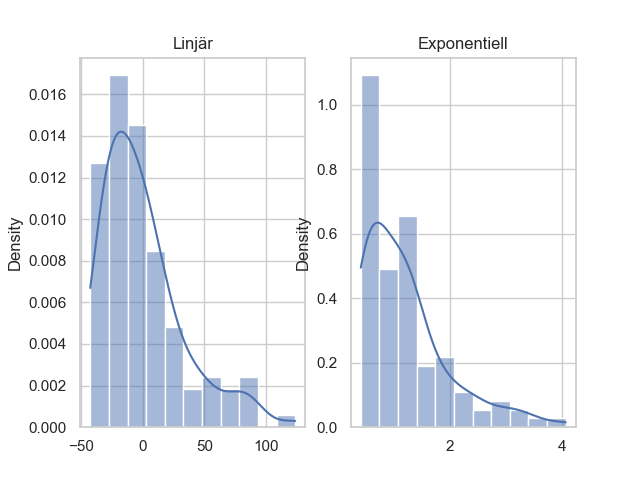
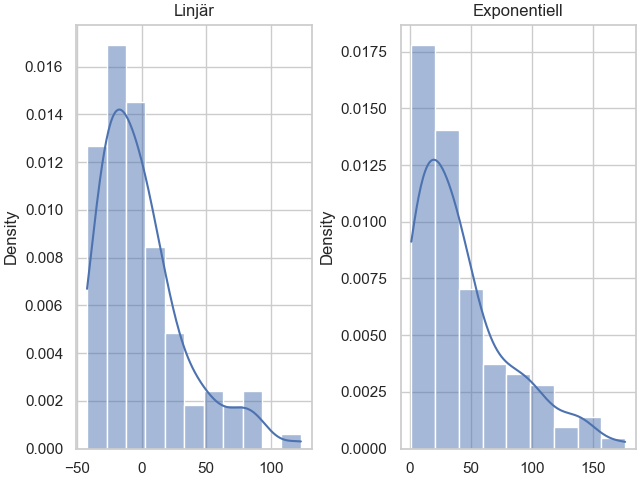
Ändrat prediktionen & regressionsmodellen till smf

diff --git a/MatstatProjekt.py b/MatstatProjekt.py
@@ -24,8 +24,8 @@ Y = Pb_S['Pb'].values
 
 #%% Enkel regression, Linjär modell Södermanland
 
-res_lin=smf.ols(formula='Pb~Year1975',data=Pb_S).fit()
-print(res_lin.summary())
+reg_lin=smf.ols(formula='Pb~Year1975',data=Pb_S).fit()
+print(reg_lin.summary())
 
 #Våra parametrar för den linjära modellen
 alpha, beta = reg_lin.params
@@ -49,8 +49,8 @@ plt.show()
 #%% Enkel regression differential model Södermanland
 
 Y_log = np.log(Y)
-res_exp = smf.ols(formula='np.log(Pb)~Year1975',data=Pb_S).fit()
-print(res_exp.summary())
+reg_exp = smf.ols(formula='np.log(Pb)~Year1975',data=Pb_S).fit()
+print(reg_exp.summary())
 
 #Våra parametrar för den exponentiella modellen
 C, k = np.exp(reg_exp.params[0]), reg_exp.params[1]
@@ -77,7 +77,7 @@ plt.title('Södermanland exponentiell')
 plt.savefig('Grafer/SödermanlandExponentiell.png')
 plt.show()
 
-#Jämförelse mellan linjär och exponentiell modell
+#%%Jämförelse mellan linjär och exponentiell modell
 fig,axs=plt.subplots(1, 2, constrained_layout=True)
 axs[0].set_title('Linjär')
 axs[1].set_title('Exponentiell')
@@ -126,18 +126,24 @@ plt.title("Exponentiella modeller")
 #Sparar och visar grafen med våra exponentiella modeller
 plt.savefig('Grafer/ExpModeller.png')
 plt.show()
-#%% Prediktion Ny
+#%% Prediktion 2025
 Pb_0=pd.DataFrame({'Year1975' : [50, 50],'Lan_I' : [0, 1]})
 Pred=res_mult_log.get_prediction(Pb_0).summary_frame(alpha=0.05)
-print(str(Pred))
-print(str(Pred[0][0]))
-#%% Prediktion med intervall
+
+Pred_S_2025=[np.exp(Pred['mean'][1]),np.exp(Pred['mean_ci_lower'][1]),np.exp(Pred['mean_ci_upper'][1])]##ska vi ha mean/obs här??
+Pred_B_2025=[np.exp(Pred['mean'][0]),np.exp(Pred['mean_ci_lower'][0]),np.exp(Pred['mean_ci_upper'][0])]
+print('PREDIKTION 2025'+'[Mitten,Undre,Övre]')
+print('Blekinge:'+str(Pred_B_2025) )
+print('Södermanland:'+str(Pred_S_2025) )
+#Prediktion när under 10mg/g mossa
+
+#%% Prediktion plottad
 #Våra konfidensintervall för vår multipel regression modell 
 intervals=res_mult_log.conf_int()
-C_h,k1_h,k2_h=np.exp(intervals[0][1]),intervals[1][1],intervals[2][1]
-C_l,k1_l,k2_l=np.exp(intervals[0][0]),intervals[1][0],intervals[2][0]
+C_h, k1_h, k2_h = np.exp(intervals[1]['Intercept']), intervals[1]['Year1975'], intervals[1]['Lan_I']
+C_l, k1_l, k2_l = np.exp(intervals[0]['Intercept']), intervals[0]['Year1975'], intervals[0]['Lan_I']
 
-#Våran exponentiellla modell
+#Våran exponentiella modell
 def exp(C,k1,k2,t):
     return C*np.exp(t*k1)*np.exp(k2)
 
@@ -157,30 +163,30 @@ fig,axs=plt.subplots(2, 1, constrained_layout=True)
 
 #Våra tre respektive modeller för Södermanland
 sns.lineplot(x=t, y=y_exp_S, color='blue',
-                label='Södermanland', ax=axes[0])
+                label='Södermanland', ax=axs[0])
 sns.lineplot(x=t, y=y_exp_S_undre, color='lightblue',
-                label='Södermanland undre', ax=axes[0])
+                label='Södermanland undre', ax=axs[0])
 sns.lineplot(x=t, y=y_exp_S_övre, color='darkblue',
-                label='Södermanland övre', ax=axes[0])
+                label='Södermanland övre', ax=axs[0])
 
 #Namnger våra axlar korrekt
-axes[0].set_xlabel("Tid (år)")
-axes[0].set_ylabel("Bly (mg/kg mossa)")
-axes[0].legend()
-axes[0].set_title("Södermanland")
+axs[0].set_xlabel("Tid (år)")
+axs[0].set_ylabel("Bly (mg/kg mossa)")
+axs[0].legend()
+axs[0].set_title("Södermanland")
 
 #Våra tre respektive modeller för Blekinge
-sns.lineplot(x=t, y=y_exp_B, color='red', label='Blekinge', ax=axes[1])
+sns.lineplot(x=t, y=y_exp_B, color='red', label='Blekinge', ax=axs[1])
 sns.lineplot(x=t, y=y_exp_B_undre, color='lightcoral',
-                label='Blekinge undre', ax=axes[1])
+                label='Blekinge undre', ax=axs[1])
 sns.lineplot(x=t, y=y_exp_B_övre, color='darkred',
-                label='Blekinge övre', ax=axes[1])
+                label='Blekinge övre', ax=axs[1])
 
 #Namnger våra axlar korrekt
-axes[1].set_xlabel("Tid (år)")
-axes[1].set_ylabel("Bly (mg/kg mossa)")
-axes[1].legend()
-axes[1].set_title("Blekinge")
+axs[1].set_xlabel("Tid (år)")
+axs[1].set_ylabel("Bly (mg/kg mossa)")
+axs[1].legend()
+axs[1].set_title("Blekinge")
 
 #Justerar och sparar grafen
 plt.tight_layout()
@@ -189,7 +195,7 @@ plt.show()
 
 ##Våran prediktion av blyvärdet 2025 för respektive län
 #Södermanland
-pred_exp_S_undre=round(exp(C_l,k1_l,k2_l,50),2)
+pred_exp_S_undre=round(exp(C_l,k1_l,k2_l,50),2)#dessa  stämmer inte överens med tidigare predictions
 pred_exp_S = round(exp(C,k1,k2,50),2)
 pred_exp_S_övre=round(exp(C_h,k1_h,k2_h,50),2)
 
@@ -211,10 +217,10 @@ pred_res_2025 = pd.DataFrame(data=data, index=['Södermanland','Blekinge']
                   ,columns=['Undre Gräns','Väntevärde','Övre Gräns'])
 
 
-#Prediktion när under 10mg/g mossa
 
 
-#Latex-tabeller för våra regressionsresultat
+
+#%%Latex-tabeller för våra regressionsresultat
 latex_table_lin = reg_lin.summary().as_latex()
 latex_table_exp = reg_exp.summary().as_latex()
 latex_table_mult_log = res_mult_log.summary().as_latex()
